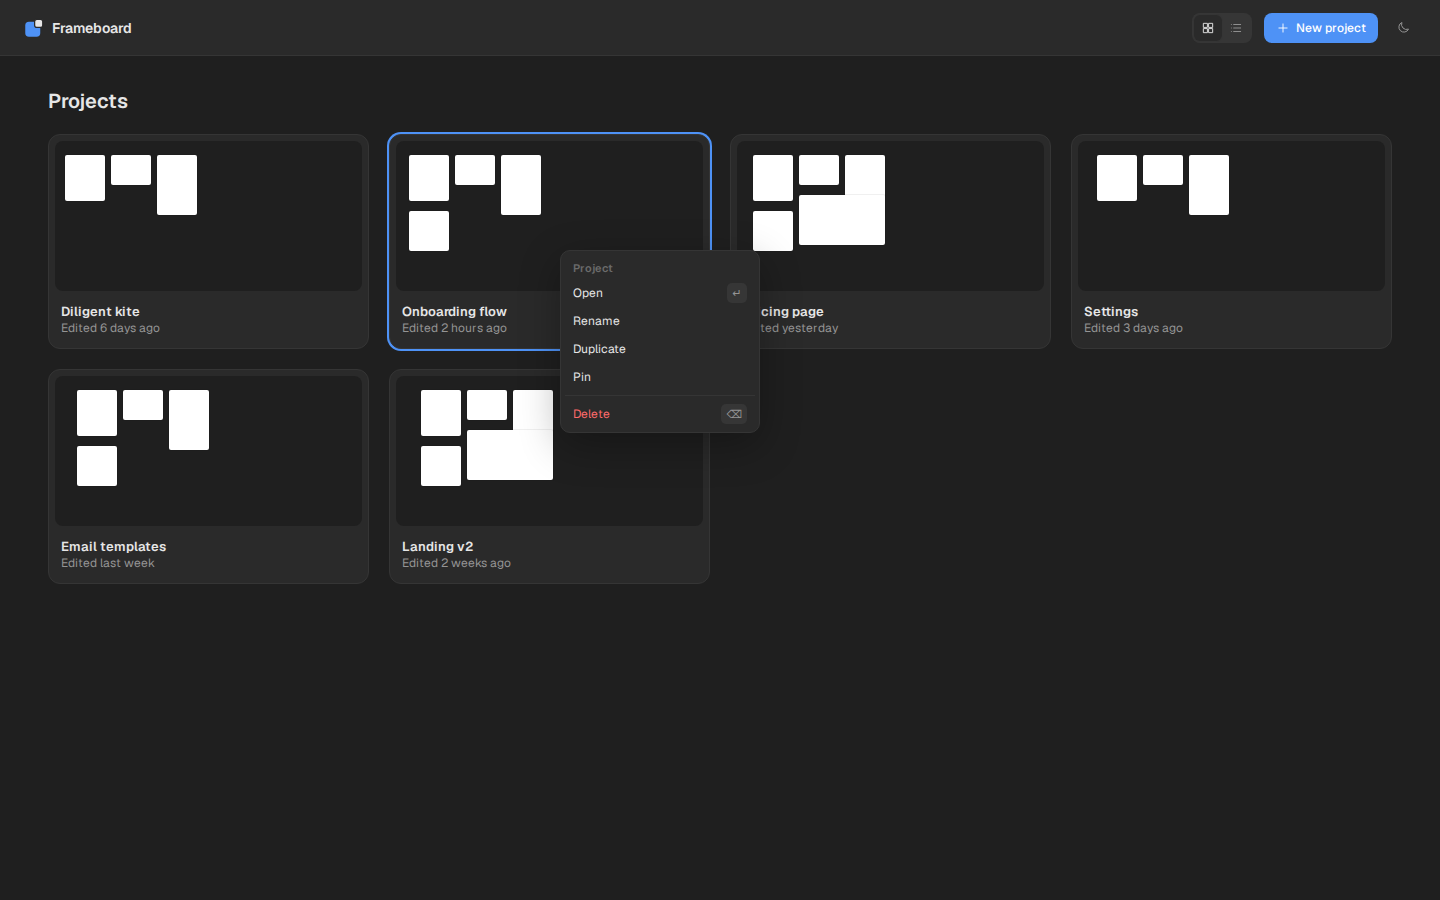
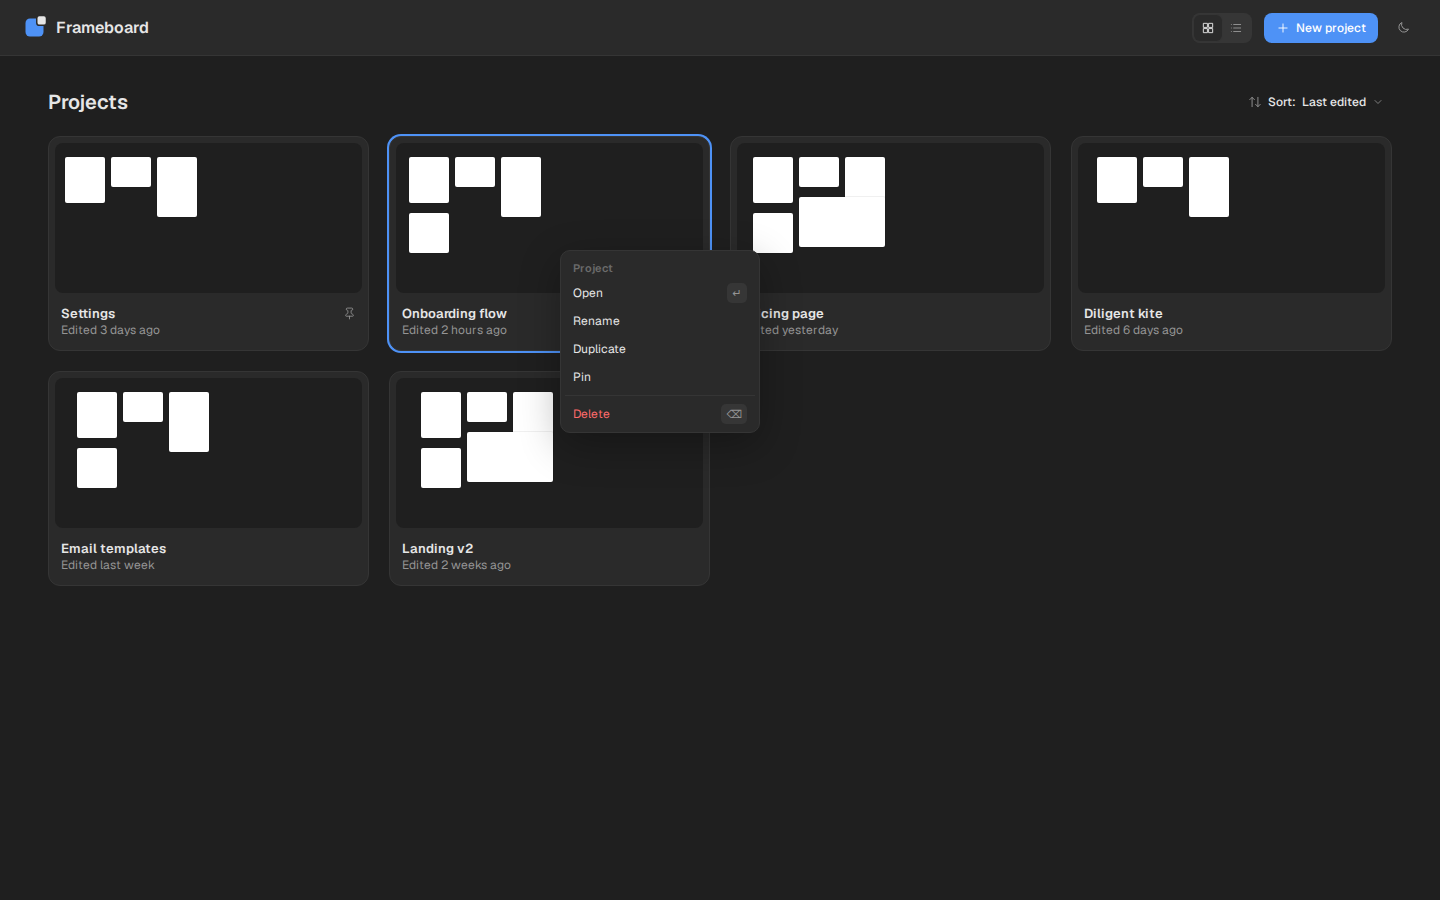
docs(design): redraw home pin menu with the sort control

diff --git a/canon/design/menus/home-pin.html b/canon/design/menus/home-pin.html
@@ -121,7 +121,7 @@ button{font:inherit;color:inherit;background:none;border:0;cursor:default}
 
 .home{display:grid;grid-template-rows:56px 1fr;height:100%;background:var(--canvas)}
 .htop{display:flex;align-items:center;gap:12px;padding:0 24px;border-bottom:1px solid var(--border);background:var(--panel)}
-.brand{font-weight:600;font-size:14px;flex:1;display:flex;align-items:center;gap:8px}
+.brand{font-weight:600;font-size:16px;flex:1;display:flex;align-items:center;gap:8px}.cmeta b{display:block;font-weight:600;font-size:13px}.brand .mk{position:relative;top:-1.5px}.ptitle{display:flex;align-items:center;justify-content:space-between;margin-bottom:20px}.ptitle h1{margin-bottom:0!important}.sortbtn{display:flex;align-items:center;gap:6px;height:28px;padding:0 8px 0 10px;border-radius:8px;color:var(--text);font-weight:500}.sortbtn .ic{color:var(--muted)}.sortbtn b{color:var(--text);font-weight:500}.sortbtn.open{background:var(--raised)}.pinmark{flex:none;color:var(--muted)}.cmeta b{display:flex!important;align-items:center;gap:6px}.cmeta b .pinmark{margin-left:auto}.lname .pinmark{margin-left:auto}
 .mark{width:18px;height:18px;border-radius:5px;background:var(--accent)}
 .btn{display:flex;align-items:center;gap:6px;height:30px;padding:0 12px;border-radius:8px;font-weight:500}
 .btn.primary{background:var(--accent);color:var(--accentfg)}
@@ -209,6 +209,6 @@ button{font:inherit;color:inherit;background:none;border:0;cursor:default}
 .pill{left:calc(240px + (100% - 480px)/2)}</style>
 </head>
 <body>
-<div class="home"><header class="htop"><span class="brand"><svg class="mk" viewBox="0 0 64 64" width="20" height="20"><rect x="4" y="12" width="48" height="48" rx="12" fill="var(--accent)"/><rect x="34" y="4" width="26" height="26" rx="7" fill="var(--text)" stroke="var(--panel)" stroke-width="4"/></svg>Frameboard</span><div class="vt"><button class="on"><svg class="ic" width="14" height="14" viewBox="0 0 24 24" fill="none" stroke="currentColor" stroke-width="1.6" stroke-linecap="round" stroke-linejoin="round"><path d="M4 4h7v7H4zM13 4h7v7h-7zM4 13h7v7H4zM13 13h7v7h-7z"/></svg></button><button class=""><svg class="ic" width="14" height="14" viewBox="0 0 24 24" fill="none" stroke="currentColor" stroke-width="1.6" stroke-linecap="round" stroke-linejoin="round"><path d="M8 6h12M8 12h12M8 18h12M4 6h.01M4 12h.01M4 18h.01"/></svg></button></div><button class="btn primary"><svg class="ic" width="14" height="14" viewBox="0 0 24 24" fill="none" stroke="currentColor" stroke-width="1.6" stroke-linecap="round" stroke-linejoin="round"><path d="M12 5v14M5 12h14"/></svg>New project</button><button class="ib"><svg data-theme-only="dark" class="ic" width="15" height="15" viewBox="0 0 24 24" fill="none" stroke="currentColor" stroke-width="1.6" stroke-linecap="round" stroke-linejoin="round"><path d="M20 14.5A8 8 0 019.5 4a8 8 0 1010.5 10.5z"/></svg><svg data-theme-only="light" class="ic" width="15" height="15" viewBox="0 0 24 24" fill="none" stroke="currentColor" stroke-width="1.6" stroke-linecap="round" stroke-linejoin="round"><circle cx="12" cy="12" r="4"/><path d="M12 2v2M12 20v2M2 12h2M20 12h2M5 5l1.5 1.5M17.5 17.5L19 19M5 19l1.5-1.5M17.5 6.5L19 5"/></svg></button></header><main class="hbody"><h1>Projects</h1><div class="cards"><div class="card"><div class="thumb"><i style="left:10px;top:14px;width:40px;height:46px"></i><i style="left:56px;top:14px;width:40px;height:30px"></i><i style="left:102px;top:14px;width:40px;height:60px"></i></div><div class="cmeta"><b>Diligent kite</b><span>Edited 6 days ago</span></div></div><div class="card hov"><div class="thumb"><i style="left:13px;top:14px;width:40px;height:46px"></i><i style="left:59px;top:14px;width:40px;height:30px"></i><i style="left:105px;top:14px;width:40px;height:60px"></i><i style="left:13px;top:70px;width:40px;height:40px"></i></div><div class="cmeta"><b>Onboarding flow</b><span>Edited 2 hours ago</span></div></div><div class="card"><div class="thumb"><i style="left:16px;top:14px;width:40px;height:46px"></i><i style="left:62px;top:14px;width:40px;height:30px"></i><i style="left:108px;top:14px;width:40px;height:60px"></i><i style="left:16px;top:70px;width:40px;height:40px"></i><i style="left:62px;top:54px;width:86px;height:50px"></i></div><div class="cmeta"><b>Pricing page</b><span>Edited yesterday</span></div></div><div class="card"><div class="thumb"><i style="left:19px;top:14px;width:40px;height:46px"></i><i style="left:65px;top:14px;width:40px;height:30px"></i><i style="left:111px;top:14px;width:40px;height:60px"></i></div><div class="cmeta"><b>Settings</b><span>Edited 3 days ago</span></div></div><div class="card"><div class="thumb"><i style="left:22px;top:14px;width:40px;height:46px"></i><i style="left:68px;top:14px;width:40px;height:30px"></i><i style="left:114px;top:14px;width:40px;height:60px"></i><i style="left:22px;top:70px;width:40px;height:40px"></i></div><div class="cmeta"><b>Email templates</b><span>Edited last week</span></div></div><div class="card"><div class="thumb"><i style="left:25px;top:14px;width:40px;height:46px"></i><i style="left:71px;top:14px;width:40px;height:30px"></i><i style="left:117px;top:14px;width:40px;height:60px"></i><i style="left:25px;top:70px;width:40px;height:40px"></i><i style="left:71px;top:54px;width:86px;height:50px"></i></div><div class="cmeta"><b>Landing v2</b><span>Edited 2 weeks ago</span></div></div></div></main></div><div class="menu" style="left:560px;top:250px;width:200px"><div class="mtitle">Project</div><div class="mi ">Open<span class="kbd"><span>↵</span></span></div><div class="mi ">Rename</div><div class="mi ">Duplicate</div><div class="mi ">Pin</div><div class="msep"></div><div class="mi danger">Delete<span class="kbd"><span>⌫</span></span></div></div>
+<div class="home"><header class="htop"><span class="brand"><svg class="mk" viewBox="0 0 64 64" width="24" height="24"><rect x="4" y="12" width="48" height="48" rx="12" fill="var(--accent)"/><rect x="34" y="4" width="26" height="26" rx="7" fill="var(--text)" stroke="var(--panel)" stroke-width="4"/></svg>Frameboard</span><div class="vt"><button class="on"><svg class="ic" width="14" height="14" viewBox="0 0 24 24" fill="none" stroke="currentColor" stroke-width="1.6" stroke-linecap="round" stroke-linejoin="round"><path d="M4 4h7v7H4zM13 4h7v7h-7zM4 13h7v7H4zM13 13h7v7h-7z"/></svg></button><button class=""><svg class="ic" width="14" height="14" viewBox="0 0 24 24" fill="none" stroke="currentColor" stroke-width="1.6" stroke-linecap="round" stroke-linejoin="round"><path d="M8 6h12M8 12h12M8 18h12M4 6h.01M4 12h.01M4 18h.01"/></svg></button></div><button class="btn primary"><svg class="ic" width="14" height="14" viewBox="0 0 24 24" fill="none" stroke="currentColor" stroke-width="1.6" stroke-linecap="round" stroke-linejoin="round"><path d="M12 5v14M5 12h14"/></svg>New project</button><button class="ib"><svg data-theme-only="dark" class="ic" width="15" height="15" viewBox="0 0 24 24" fill="none" stroke="currentColor" stroke-width="1.6" stroke-linecap="round" stroke-linejoin="round"><path d="M20 14.5A8 8 0 019.5 4a8 8 0 1010.5 10.5z"/></svg><svg data-theme-only="light" class="ic" width="15" height="15" viewBox="0 0 24 24" fill="none" stroke="currentColor" stroke-width="1.6" stroke-linecap="round" stroke-linejoin="round"><circle cx="12" cy="12" r="4"/><path d="M12 2v2M12 20v2M2 12h2M20 12h2M5 5l1.5 1.5M17.5 17.5L19 19M5 19l1.5-1.5M17.5 6.5L19 5"/></svg></button></header><main class="hbody"><div class="ptitle"><h1>Projects</h1><button class="sortbtn"><svg class="ic" width="14" height="14" viewBox="0 0 24 24" fill="none" stroke="currentColor" stroke-width="1.6" stroke-linecap="round" stroke-linejoin="round"><path d="m21 16-4 4-4-4"/><path d="M17 20V4"/><path d="m3 8 4-4 4 4"/><path d="M7 4v16"/></svg>Sort: <b>Last edited</b><svg class="ic" width="12" height="12" viewBox="0 0 24 24" fill="none" stroke="currentColor" stroke-width="1.6" stroke-linecap="round" stroke-linejoin="round"><path d="m6 9 6 6 6-6"/></svg></button></div><div class="cards"><div class="card"><div class="thumb"><i style="left:10px;top:14px;width:40px;height:46px"></i><i style="left:56px;top:14px;width:40px;height:30px"></i><i style="left:102px;top:14px;width:40px;height:60px"></i></div><div class="cmeta"><b>Settings<span class="pinmark" title="Pinned"><svg class="ic" width="13" height="13" viewBox="0 0 24 24" fill="none" stroke="currentColor" stroke-width="1.6" stroke-linecap="round" stroke-linejoin="round"><path d="M12 17v5"/><path d="M9 10.76a2 2 0 0 1-1.11 1.79l-1.78.9A2 2 0 0 0 5 15.24V16a1 1 0 0 0 1 1h12a1 1 0 0 0 1-1v-.76a2 2 0 0 0-1.11-1.79l-1.78-.9A2 2 0 0 1 15 10.76V7a1 1 0 0 1 1-1 2 2 0 0 0 0-4H8a2 2 0 0 0 0 4 1 1 0 0 1 1 1z"/></svg></span></b><span>Edited 3 days ago</span></div></div><div class="card hov"><div class="thumb"><i style="left:13px;top:14px;width:40px;height:46px"></i><i style="left:59px;top:14px;width:40px;height:30px"></i><i style="left:105px;top:14px;width:40px;height:60px"></i><i style="left:13px;top:70px;width:40px;height:40px"></i></div><div class="cmeta"><b>Onboarding flow</b><span>Edited 2 hours ago</span></div></div><div class="card"><div class="thumb"><i style="left:16px;top:14px;width:40px;height:46px"></i><i style="left:62px;top:14px;width:40px;height:30px"></i><i style="left:108px;top:14px;width:40px;height:60px"></i><i style="left:16px;top:70px;width:40px;height:40px"></i><i style="left:62px;top:54px;width:86px;height:50px"></i></div><div class="cmeta"><b>Pricing page</b><span>Edited yesterday</span></div></div><div class="card"><div class="thumb"><i style="left:19px;top:14px;width:40px;height:46px"></i><i style="left:65px;top:14px;width:40px;height:30px"></i><i style="left:111px;top:14px;width:40px;height:60px"></i></div><div class="cmeta"><b>Diligent kite</b><span>Edited 6 days ago</span></div></div><div class="card"><div class="thumb"><i style="left:22px;top:14px;width:40px;height:46px"></i><i style="left:68px;top:14px;width:40px;height:30px"></i><i style="left:114px;top:14px;width:40px;height:60px"></i><i style="left:22px;top:70px;width:40px;height:40px"></i></div><div class="cmeta"><b>Email templates</b><span>Edited last week</span></div></div><div class="card"><div class="thumb"><i style="left:25px;top:14px;width:40px;height:46px"></i><i style="left:71px;top:14px;width:40px;height:30px"></i><i style="left:117px;top:14px;width:40px;height:60px"></i><i style="left:25px;top:70px;width:40px;height:40px"></i><i style="left:71px;top:54px;width:86px;height:50px"></i></div><div class="cmeta"><b>Landing v2</b><span>Edited 2 weeks ago</span></div></div></div></main></div><div class="menu" style="left:560px;top:250px;width:200px"><div class="mtitle">Project</div><div class="mi ">Open<span class="kbd"><span>↵</span></span></div><div class="mi ">Rename</div><div class="mi ">Duplicate</div><div class="mi ">Pin</div><div class="msep"></div><div class="mi danger">Delete<span class="kbd"><span>⌫</span></span></div></div>
 </body>
 </html>
